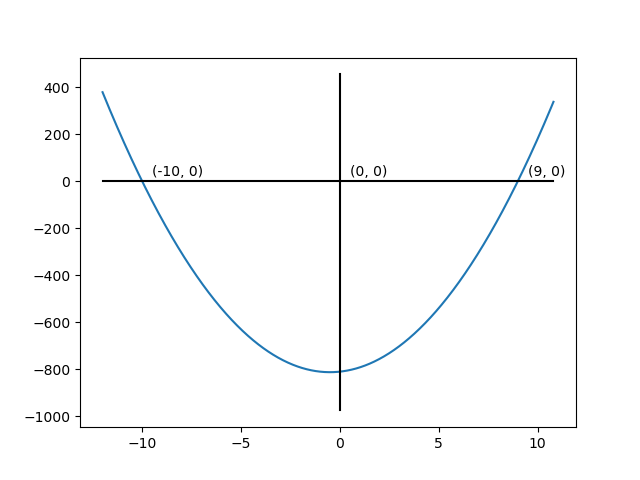
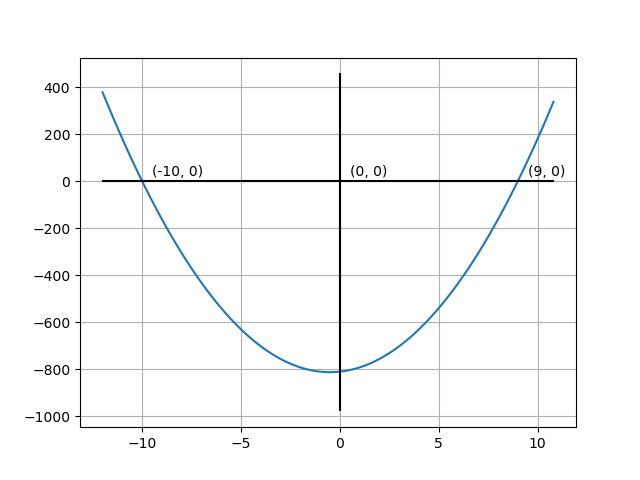
Updated Assignment 1

diff --git a/Assignment1/main.tex b/Assignment1/main.tex
@@ -2,6 +2,7 @@
 \usepackage[utf8]{inputenc}
 \usepackage{graphicx}
 \usepackage{amssymb}
+\usepackage{amsmath}
 \graphicspath{{images/}}
 \title{AI1110 Assignment 1}
 \author{Abhinav Yadav, cs21btech11002}
@@ -9,36 +10,41 @@
 \begin{document}
     \maketitle
     \section*{Q11 (b)}
-    \includegraphics[width=\textwidth]{q11_b.png}\newline
+    \includegraphics[width=\textwidth]{q11_b.png}
     \section*{Solution}
     Let the two consecutive natural numbers which are multiples of $3$ be $3n$ and $3n+3$
     \hspace{5pt} $\exists \hspace{2pt} n \in \mathbb{N}$
-    \newline
-    \textbf{According to the question:}\newline
-    $\hspace*{12pt} 3n(3n+3) = 810$\newline
-    $\Rightarrow 9n(n+1)=810$\newline
-    $\Rightarrow n(n+1)=90$\newline
-    $\Rightarrow n^2+n-90=0\hspace{20pt} -(1)$\newline
-    $\Rightarrow (n+10)(n-9)=0$\newline
-    $\Rightarrow n=-10 \hspace{15pt} or \hspace{15pt} n=9$\newline\newline
-    \hspace*{11pt} discarding $n=-10$ as $n \in \mathbb{N}$\newline\newline
-    $\Rightarrow n=9$\newline
-    $\Rightarrow 3n=27$\newline
-    $\Rightarrow 3n+3=30$\newline\newline
-    The two numbers are:\newline
-    \begin{tabular}{|c|}
-        \hline
-            $27, 30$\\
-        \hline
-    \end{tabular}\newline\newline\newline
-    \begin{figure}
-        \includegraphics[width=\textwidth]{plot.png}
+    \textbf{According to the question:}\\
+    \begin{align*}
+        & 3n(3n+3) = 810\\
+        \Rightarrow & 9n(n+1)=810\\
+        \Rightarrow & n(n+1)=90\\
+        \Rightarrow & n^2+n-90=0\hspace{0pt} -(1)\\
+        \Rightarrow & (n+10)(n-9)=0\\
+        \Rightarrow & n=-10 \hspace{15pt} or \hspace{15pt} n=9
+    \end{align*}
+    \begin{center}
+        discarding $n=-10$ as $n \in \mathbb{N}$
+    \end{center}
+    \begin{equation*}
+        \begin{split}
+            \Rightarrow & n=9\\
+            \Rightarrow & 3n=27\\
+            \Rightarrow & 3n+3=30\\\\
+        \end{split}
+    \end{equation*} 
+    The two numbers are:\\
+    \fbox{$27, 30$}\\
+    Plot of $eq^n(1)$ is:\\
+    \begin{figure}[h]
+        \centering
+        \includegraphics[width=0.8\textwidth]{plot.png}
         \caption{Plot showing the polynomial in $eq^n(1)$}
-    \end{figure}
-    It can be easily verified by observing the plot that the roots of $eq^n (1)$ are 9 and -10.\newline
-    \newline\newline
+    \end{figure}\\
+    It can be easily verified by observing the plot that the roots of $eq^n (1)$ are 9 and -10.\\\\
+
     The output of the program used to find and verify these numbers is:
-    \begin{figure}
+    \begin{figure}[h]
         \includegraphics[width=\textwidth]{output.png}
         \caption{Output of the python program}
     \end{figure}

diff --git a/Assignment1/codes/find_nums.py b/Assignment1/codes/find_nums.py
@@ -25,7 +25,7 @@ def plot(coeffs, roots):
 
         Parameters
         ----------
-        `coeffs`: An array of coefficients of polynomial
+        `coeffs`: An array of coefficients of polynomial in increasing degree of the variable
         `roots`: An array of roots of polynomial
     """
 
@@ -34,6 +34,7 @@ def plot(coeffs, roots):
 
     temp = [coeffs[i]*x**i for i in range(len((coeffs)))]
     y = array(list(map(my_sum, *temp)))
+    plt.grid()
     plt.plot(x, y)
     plt.plot(x, x_axis, color="black")  # x-axis
 
